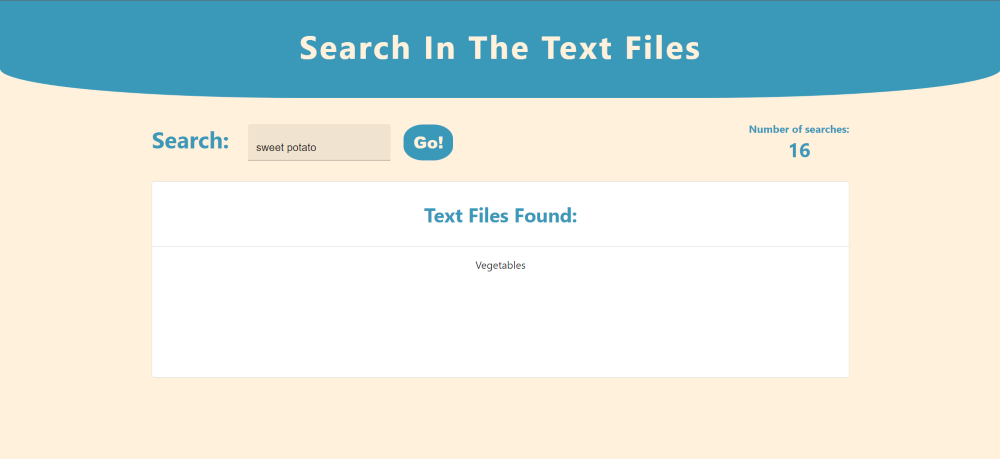
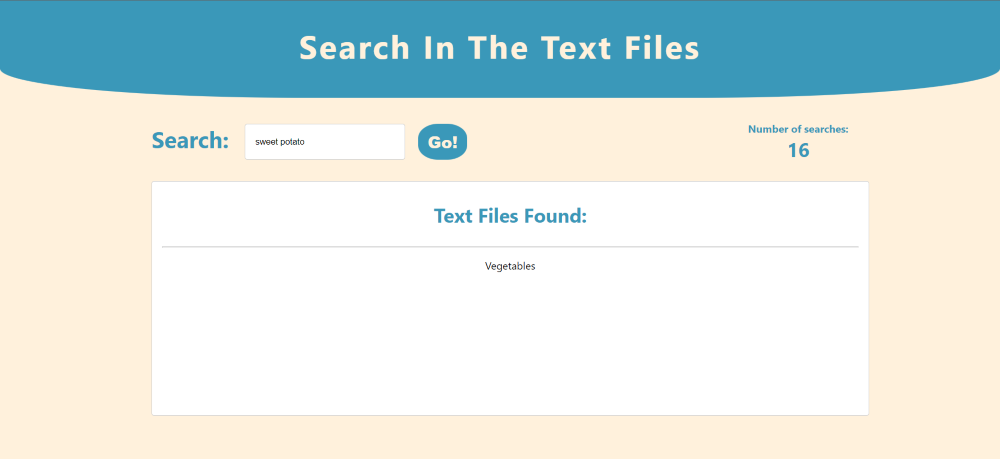
css

diff --git a/frontend/src/App.js b/frontend/src/App.js
@@ -1,7 +1,4 @@
 import "./App.css";
-import TextField from "@mui/material/TextField";
-import Card from "@mui/material/Card";
-import Divider from "@mui/material/Divider";
 import { useEffect, useState } from "react";
 import { io } from "socket.io-client";
 import { httpService } from "./http-service";
@@ -36,11 +33,13 @@ function App() {
         <div className="row">
           <span className="left">
             <strong>Search: </strong>
-            <TextField
-              variant="filled"
+            <input
+              type="text"
+              placeholder="Search..."
               value={searchInput}
               onChange={(e) => setSearchInput(e.target.value)}
-            />
+            ></input>
+
             <button className="btn" onClick={handleSearch}>
               Go!
             </button>
@@ -50,13 +49,13 @@ function App() {
             <p className="count">{countSearch}</p>
           </span>
         </div>
-        <Card variant="outlined" sx={{ textAlign: "center", height: 300 }}>
+        <div className="card">
           <p className="smallHeader">Text Files Found:</p>
-          <Divider />
+          <hr></hr>
           {searchResults.map((file) => (
             <p key={file}>{file}</p>
           ))}
-        </Card>
+        </div>
       </div>
     </div>
   );

diff --git a/frontend/src/App.css b/frontend/src/App.css
@@ -1,7 +1,7 @@
 .app {
   background-color: #fff1dc;
   min-height: 100vh;
-  display: flexbox;
+  box-sizing: border-box;
 }
 
 .header {
@@ -32,9 +32,15 @@
 
 strong {
   color: #3a98b9;
-  align-self: center;
-  padding-right: 20px;
+  padding-right: 25px;
   font-size: 35px;
+}
+
+input {
+  width: 30vh;
+  padding: 1px 15px;
+  border: 1px solid #ccc;
+  border-radius: 4px;
 }
 
 .btn {
@@ -51,6 +57,8 @@ strong {
 .left {
   float: left;
   padding-top: 20px;
+  display: flex;
+  justify-content: center;
 }
 
 .right {
@@ -62,6 +70,16 @@ strong {
   justify-content: center;
   font-size: 30px;
   margin-top: -15px;
+}
+
+.card {
+  background-color: white;
+  height: 50vh;
+  width: 100%;
+  padding: 1px 15px;
+  border: 1px solid #ccc;
+  border-radius: 4px;
+  text-align: center;
 }
 
 .smallHeader {
